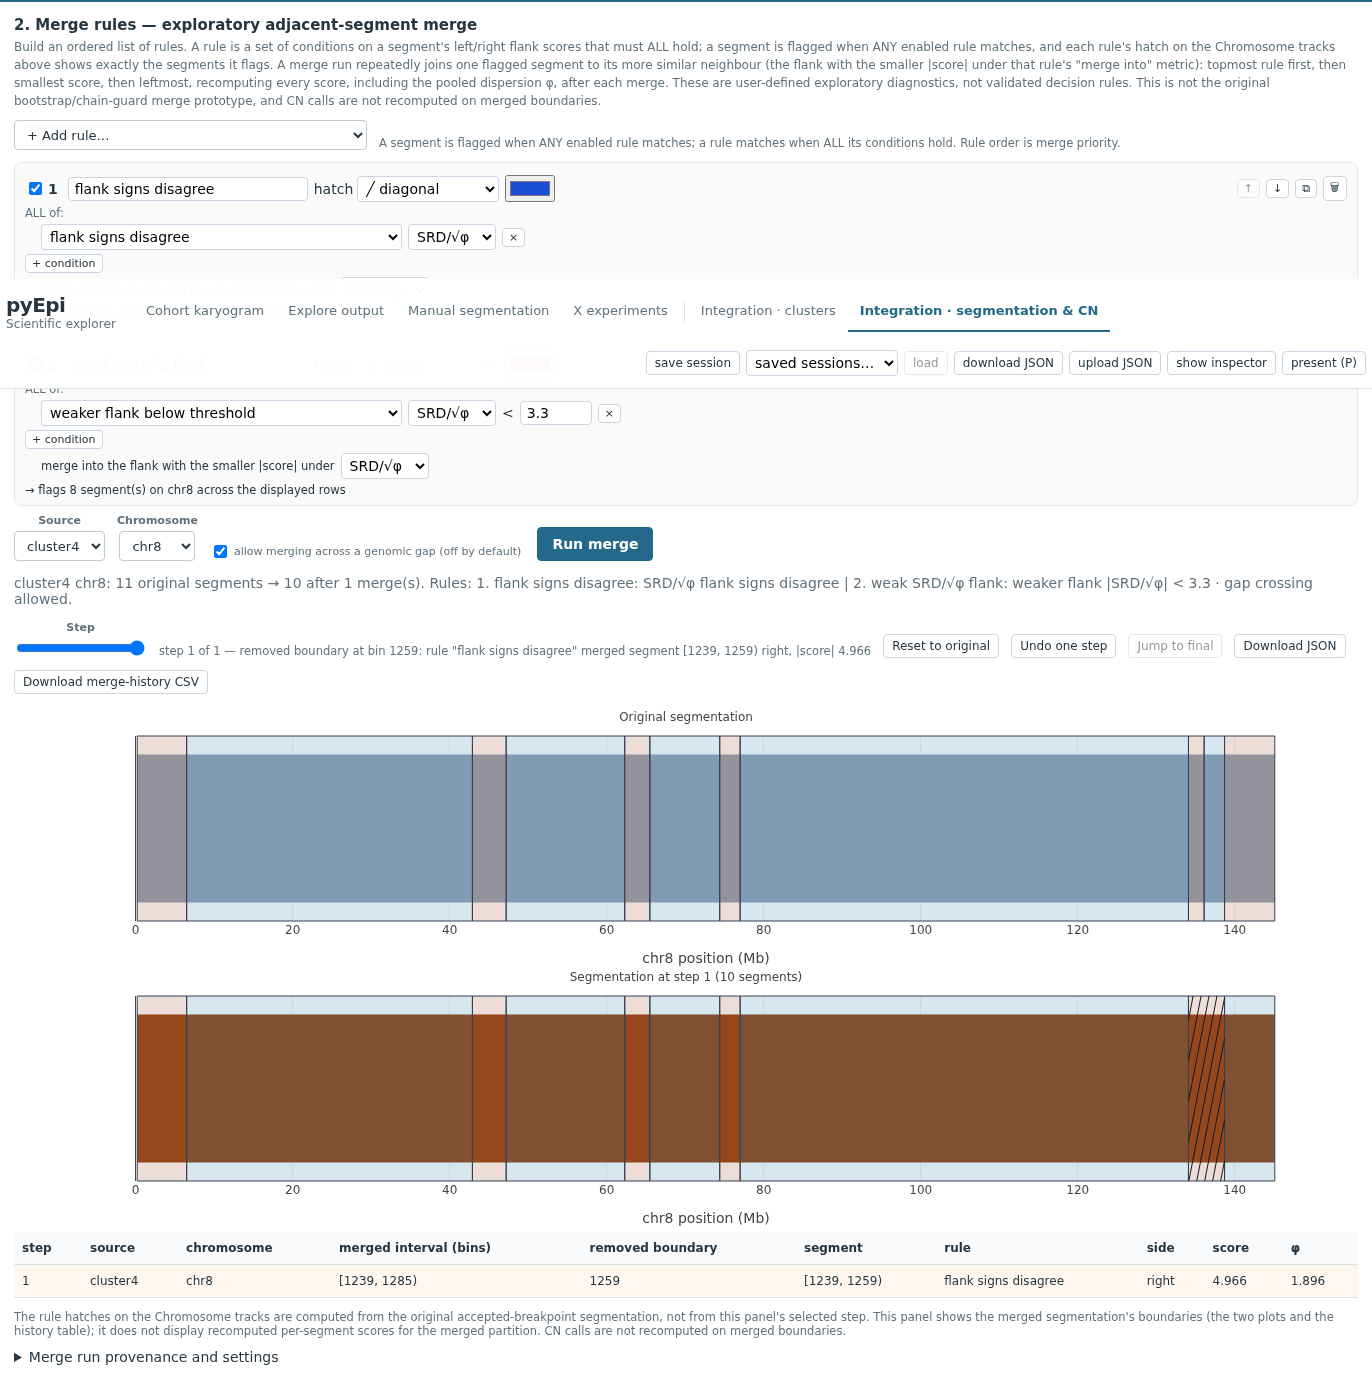
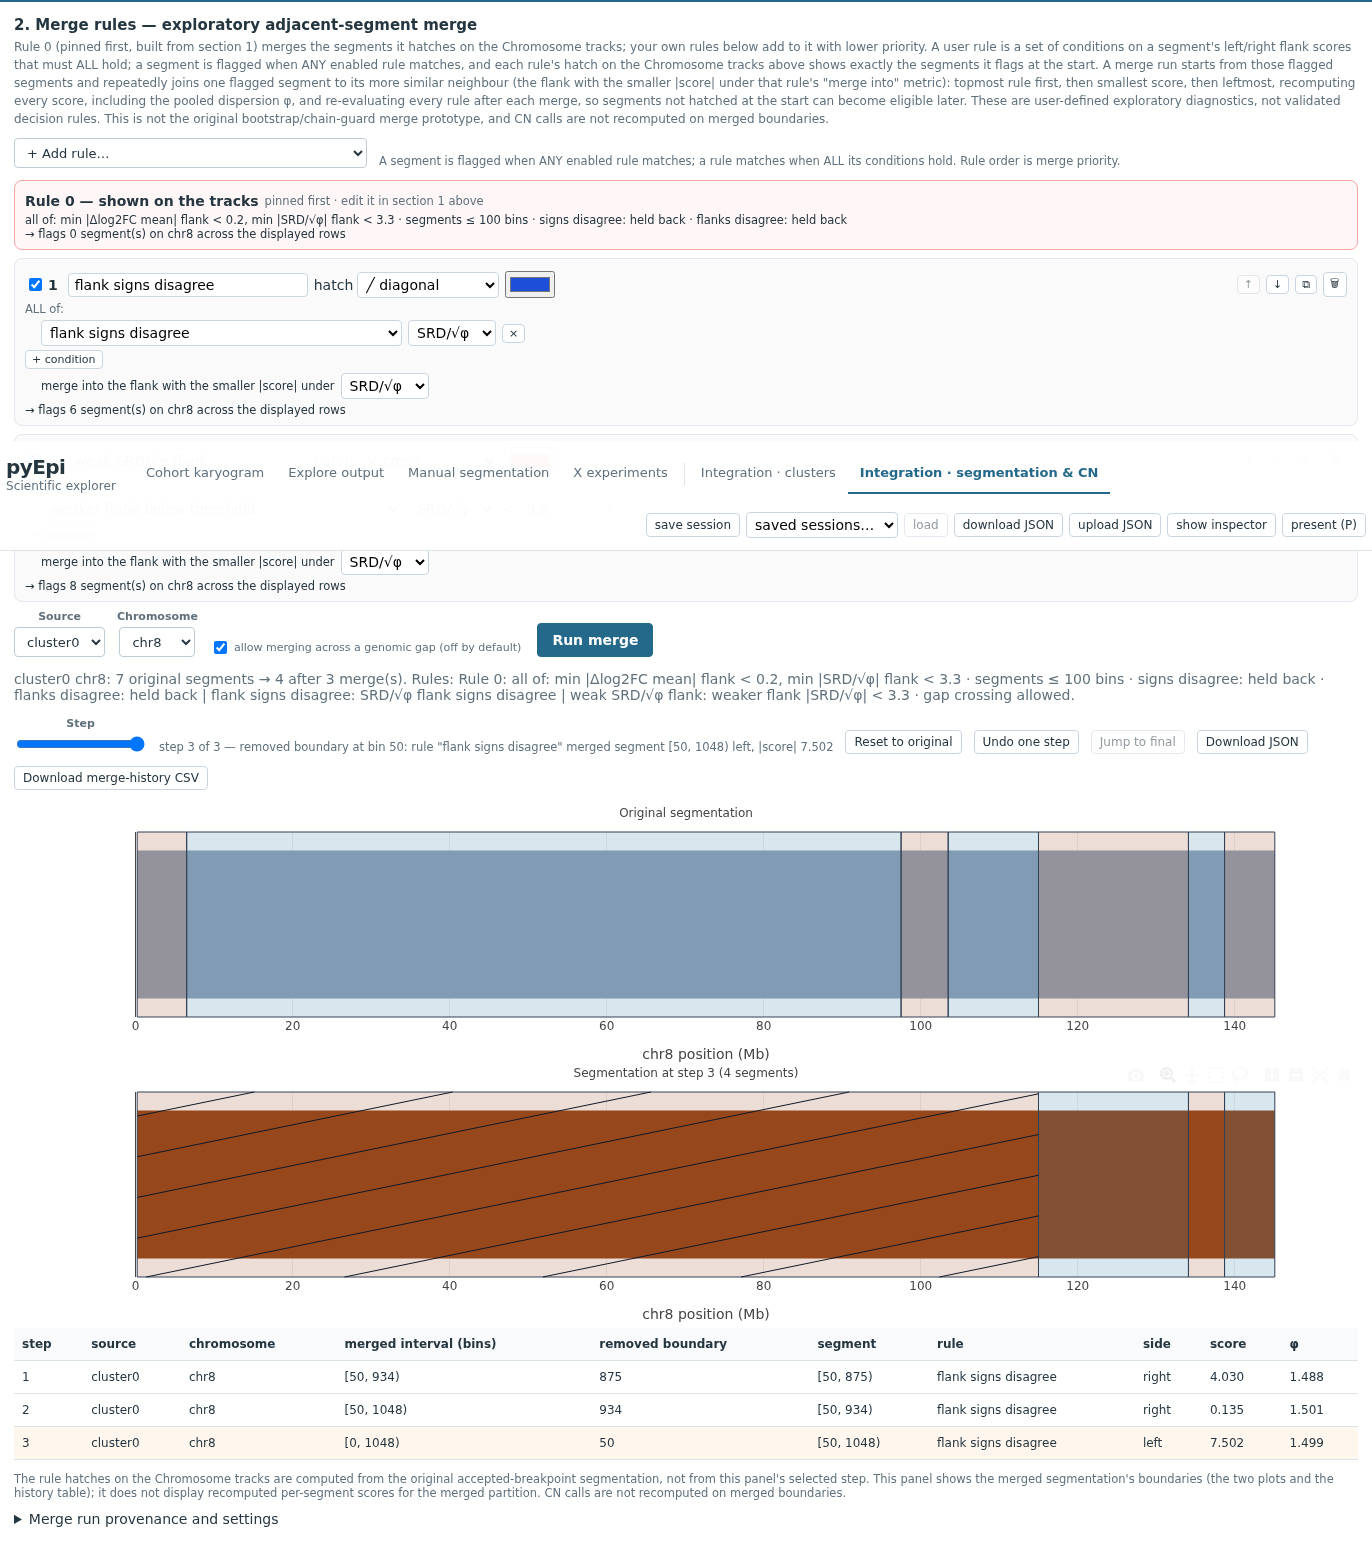
test: browser walkthrough covers Rule 0, live tracks and audit reasons
Also drop NaN reference lines from the diagnostics plots when tau or the
SRD/√φ ref is cleared.

diff --git a/web/src/components/IntegrationSegmentationView.tsx b/web/src/components/IntegrationSegmentationView.tsx
@@ -165,12 +165,14 @@ export default function IntegrationSegmentationView() {
 
   // ---------------- diagnostics across all pilot chromosomes
   const allSmall = useMemo(() => ig.smallSegs.filter((s) => s.len <= seg.smallMax), [ig.smallSegs, seg.smallMax])
+  // an invalid (cleared) tau / SRD ref is NaN: drop the reference lines instead of handing Plotly NaN coordinates
+  const finiteShapes = (shapes: any[]) => shapes.filter((sh) => ['x0', 'x1', 'y0', 'y1'].every((k) => typeof sh[k] !== 'number' || Number.isFinite(sh[k])))
   const diagCommon = { paper_bgcolor: 'white', plot_bgcolor: 'white', font: { size: 11 }, hovermode: presentation ? false : 'closest', margin: { l: 55, r: 10, t: 36, b: 44 } }
   const volcano = () => {
     const pts = allSmall.map((s) => { const f = pickFlank(s, 'min_delta', effectMetric); if (!f) return null; const d = s[f][effectMetric], sp = s[f].srd_phi; if (d === null || sp === null) return null; return { s, x: Math.abs(d), y: Math.abs(sp), f } }).filter(Boolean) as { s: SmallSeg; x: number; y: number; f: 'left' | 'right' }[]
     const q = { smallStrong: pts.filter((p) => p.x < seg.tau && p.y >= seg.srdRef).length, bigWeak: pts.filter((p) => p.x >= seg.tau && p.y < seg.srdRef).length }
     const data = (['left', 'right'] as const).map((f) => { const sub = pts.filter((p) => p.f === f); return { type: 'scatter', mode: 'markers', name: `weaker flank = ${f}`, x: sub.map((p) => p.x), y: sub.map((p) => p.y), customdata: sub.map((p) => p.s.key), text: sub.map((p) => `${p.s.source} ${p.s.chrom} seg ${p.s.segId} (${p.s.len} bins)`), marker: { size: 7, color: f === 'left' ? '#1f77b4' : '#ff7f0e', opacity: 0.75, line: { width: sub.map((p) => (p.s.key === seg.selectedSegment ? 2 : 0)), color: '#111' } }, hovertemplate: '%{text}<br>|effect| %{x:.3f} · |SRD/√φ| %{y:.2f}<extra></extra>' } })
-    return { data, layout: { ...diagCommon, height: 360, title: { text: `weaker-flank |effect| (${METRICS.find((m) => m.id === effectMetric)!.label}) vs |SRD/√φ| of that same flank · ${q.smallStrong} in "small effect, strong SRD", ${q.bigWeak} with effect ≥ τ but SRD < ${seg.srdRef}`, font: { size: 12 }, x: 0 }, xaxis: { title: { text: '|log2 effect| of weaker flank', font: { size: 11 } } }, yaxis: { title: { text: '|SRD/√φ| of that flank', font: { size: 11 } } }, shapes: [{ type: 'line', x0: seg.tau, x1: seg.tau, y0: 0, y1: 1, yref: 'paper', line: { dash: 'dash', color: '#333', width: 1 } }, { type: 'line', x0: 0, x1: 1, xref: 'paper', y0: seg.srdRef, y1: seg.srdRef, line: { dash: 'dash', color: '#333', width: 1 } }], legend: { orientation: 'h', y: -0.2 } } }
+    return { data, layout: { ...diagCommon, height: 360, title: { text: `weaker-flank |effect| (${METRICS.find((m) => m.id === effectMetric)!.label}) vs |SRD/√φ| of that same flank · ${q.smallStrong} in "small effect, strong SRD", ${q.bigWeak} with effect ≥ τ but SRD < ${seg.srdRef}`, font: { size: 12 }, x: 0 }, xaxis: { title: { text: '|log2 effect| of weaker flank', font: { size: 11 } } }, yaxis: { title: { text: '|SRD/√φ| of that flank', font: { size: 11 } } }, shapes: finiteShapes([{ type: 'line', x0: seg.tau, x1: seg.tau, y0: 0, y1: 1, yref: 'paper', line: { dash: 'dash', color: '#333', width: 1 } }, { type: 'line', x0: 0, x1: 1, xref: 'paper', y0: seg.srdRef, y1: seg.srdRef, line: { dash: 'dash', color: '#333', width: 1 } }]), legend: { orientation: 'h', y: -0.2 } } }
   }
   const sizeDep = (stat: 'srd' | 'srd_phi') => {
     const pts = allSmall.map((s) => { const a = s.left[stat], b = s.right[stat]; const v = Math.max(a === null ? -1 : Math.abs(a), b === null ? -1 : Math.abs(b)); return v < 0 ? null : { s, x: s.len, y: v } }).filter(Boolean) as { s: SmallSeg; x: number; y: number }[]
@@ -181,7 +183,7 @@ export default function IntegrationSegmentationView() {
     const rows: { s: SmallSeg; x: number; y: number; c: number }[] = []
     for (const s of allSmall) for (const f of ['left', 'right'] as const) { const d = s[f][effectMetric], sp = s[f].srd_phi; if (d === null || sp === null) continue; const segV = which === 'std' ? s.stats.std : which === 'mean' ? s.stats.mean : s.stats.cv; const flV = which === 'std' ? (f === 'left' ? s.stats.flankStdL : s.stats.flankStdR) : which === 'mean' ? (f === 'left' ? s.stats.flankMeanL : s.stats.flankMeanR) : (f === 'left' ? s.stats.flankCvL : s.stats.flankCvR); const c = Math.max(segV, flV ?? -Infinity); if (!Number.isFinite(c)) continue; rows.push({ s, x: d, y: Math.abs(sp), c }) }
     const color = which === 'cv' ? rows.map((r) => VIRIDIS[Math.min(4, binIndex(r.c, NOISE_CV_BINS))]) : rows.map((r) => r.c)
-    return { data: [{ type: 'scatter', mode: 'markers', x: rows.map((r) => r.x), y: rows.map((r) => r.y), customdata: rows.map((r) => r.s.key), text: rows.map((r) => `${r.s.source} ${r.s.chrom} seg ${r.s.segId} · ${which} ${r.c.toFixed(2)}`), marker: { size: 6, color, colorscale: which === 'cv' ? undefined : 'Viridis', showscale: which !== 'cv', colorbar: { thickness: 8, title: { text: `max(seg, flank) ${which}`, side: 'right' } }, opacity: 0.85 }, hovertemplate: '%{text}<br>effect %{x:.2f} · |SRD/√φ| %{y:.2f}<extra></extra>' }], layout: { ...diagCommon, height: 320, title: { text: `colour = max(segment, flank) per-bin ${which}${which === 'cv' ? ' (binned <0.6, 0.6–0.8, 0.8–1.0, 1.0–1.2, ≥1.2)' : ''}`, font: { size: 12 }, x: 0 }, xaxis: { title: { text: `log2 effect (${METRICS.find((m) => m.id === effectMetric)!.label}, signed)`, font: { size: 11 } } }, yaxis: { title: { text: '|SRD/√φ|', font: { size: 11 } } }, shapes: [{ type: 'line', x0: -seg.tau, x1: -seg.tau, y0: 0, y1: 1, yref: 'paper', line: { dash: 'dash', color: '#333', width: 1 } }, { type: 'line', x0: seg.tau, x1: seg.tau, y0: 0, y1: 1, yref: 'paper', line: { dash: 'dash', color: '#333', width: 1 } }, { type: 'line', x0: 0, x1: 1, xref: 'paper', y0: seg.srdRef, y1: seg.srdRef, line: { dash: 'dash', color: '#333', width: 1 } }], showlegend: false } }
+    return { data: [{ type: 'scatter', mode: 'markers', x: rows.map((r) => r.x), y: rows.map((r) => r.y), customdata: rows.map((r) => r.s.key), text: rows.map((r) => `${r.s.source} ${r.s.chrom} seg ${r.s.segId} · ${which} ${r.c.toFixed(2)}`), marker: { size: 6, color, colorscale: which === 'cv' ? undefined : 'Viridis', showscale: which !== 'cv', colorbar: { thickness: 8, title: { text: `max(seg, flank) ${which}`, side: 'right' } }, opacity: 0.85 }, hovertemplate: '%{text}<br>effect %{x:.2f} · |SRD/√φ| %{y:.2f}<extra></extra>' }], layout: { ...diagCommon, height: 320, title: { text: `colour = max(segment, flank) per-bin ${which}${which === 'cv' ? ' (binned <0.6, 0.6–0.8, 0.8–1.0, 1.0–1.2, ≥1.2)' : ''}`, font: { size: 12 }, x: 0 }, xaxis: { title: { text: `log2 effect (${METRICS.find((m) => m.id === effectMetric)!.label}, signed)`, font: { size: 11 } } }, yaxis: { title: { text: '|SRD/√φ|', font: { size: 11 } } }, shapes: finiteShapes([{ type: 'line', x0: -seg.tau, x1: -seg.tau, y0: 0, y1: 1, yref: 'paper', line: { dash: 'dash', color: '#333', width: 1 } }, { type: 'line', x0: seg.tau, x1: seg.tau, y0: 0, y1: 1, yref: 'paper', line: { dash: 'dash', color: '#333', width: 1 } }, { type: 'line', x0: 0, x1: 1, xref: 'paper', y0: seg.srdRef, y1: seg.srdRef, line: { dash: 'dash', color: '#333', width: 1 } }]), showlegend: false } }
   }
   const deltaHist = () => {
     const data: any[] = []; const layout: any = { ...diagCommon, height: 420, grid: { rows: 2, columns: 2, pattern: 'independent' }, title: { text: 'small-segment flank log2 effects: IQR-trimmed-mean vs plain-mean levels, split by the flank with min vs max |SRD/√φ| (dotted = ±τ)', font: { size: 12 }, x: 0 }, showlegend: false }
@@ -194,7 +196,7 @@ export default function IntegrationSegmentationView() {
       data.push({ type: 'histogram', x: vals, nbinsx: 40, marker: { color: '#4c72b0' }, opacity: 0.85, xaxis: `x${ax}`, yaxis: `y${ax}`, hovertemplate: '%{x:.2f}: %{y}<extra></extra>' })
       layout[`xaxis${ax}`] = { title: { text: `${ml} — ${which}-SRD flank · mean ${mean.toFixed(2)}, median ${med.toFixed(2)}, n=${vals.length}`, font: { size: 10 } } }
       layout[`yaxis${ax}`] = { title: { text: 'segments', font: { size: 10 } } }
-      layout.shapes = [...(layout.shapes || []), { type: 'line', xref: `x${ax}`, yref: 'paper', x0: mean, x1: mean, y0: 0, y1: 1, line: { color: 'red', width: 1.5 } }, { type: 'line', xref: `x${ax}`, yref: 'paper', x0: med, x1: med, y0: 0, y1: 1, line: { color: 'black', width: 1.5, dash: 'dash' } }, { type: 'line', xref: `x${ax}`, yref: 'paper', x0: seg.tau, x1: seg.tau, y0: 0, y1: 1, line: { color: 'grey', width: 1, dash: 'dot' } }, { type: 'line', xref: `x${ax}`, yref: 'paper', x0: -seg.tau, x1: -seg.tau, y0: 0, y1: 1, line: { color: 'grey', width: 1, dash: 'dot' } }]
+      layout.shapes = finiteShapes([...(layout.shapes || []), { type: 'line', xref: `x${ax}`, yref: 'paper', x0: mean, x1: mean, y0: 0, y1: 1, line: { color: 'red', width: 1.5 } }, { type: 'line', xref: `x${ax}`, yref: 'paper', x0: med, x1: med, y0: 0, y1: 1, line: { color: 'black', width: 1.5, dash: 'dash' } }, { type: 'line', xref: `x${ax}`, yref: 'paper', x0: seg.tau, x1: seg.tau, y0: 0, y1: 1, line: { color: 'grey', width: 1, dash: 'dot' } }, { type: 'line', xref: `x${ax}`, yref: 'paper', x0: -seg.tau, x1: -seg.tau, y0: 0, y1: 1, line: { color: 'grey', width: 1, dash: 'dot' } }])
       k++
     }
     return { data, layout }

diff --git a/validation/hatch-merge/HANDOFF.md b/validation/hatch-merge/HANDOFF.md
@@ -93,3 +93,27 @@ node tests/browser_hatch_merge_walkthrough.cjs
 Result: PASS. For the weak-flank rule, `flagsHigh` = 30 (threshold 1000) and `flagsLow` = 0 (threshold 0.0001); hatch shapes on the tracks rose from 136 to 736 with the rule enabled. The merge run (rules: flank signs disagree, then weak flank at 3.3, gap crossing allowed) gave `historyRows` = 1; summary: "cluster4 chr8: 11 original segments → 10 after 1 merge(s)". Session restore and legacy `hatchLayers` migration (three preset rules, enabled states true/false/true) both passed, and `errors` was empty. Backend suite: 114 passed. The script scrolls the result table into view after a run because the result plots are lazy (DeferredPlot).
 
 This supersedes the union-of-layers model from commit `3c86329`, whose UI-level check this run also covers.
+
+## Rule 0 (2026-10-26)
+
+Command run (own server on port 8767, fresh `web/dist` build):
+
+```
+BASE_URL=http://127.0.0.1:8767 \
+PLAYWRIGHT_MODULE=/home/mami/Desktop/EGA/job_search/career-ops/node_modules/playwright \
+CHROMIUM_PATH=/home/mami/.cache/ms-playwright/chromium-1234/chrome-linux64/chrome \
+node tests/browser_hatch_merge_walkthrough.cjs
+```
+
+Key values from `merge_rules_check_results.json`:
+- Rule 0 flags on chr8: `r0High` = 13 (tau 5, combine any), `r0Low` = 0 (tau 0.0001, SRD/√φ criterion off). `runEnabledWithRule0Only` = true.
+- Merge switches (tau 5, any): `wmOff` = 13, `hbOff` = 2, `wmOn` = 15, `hbOn` = 0.
+- `chr3SmallSegments` = 4 (non-pilot chromosome gets live small segments); `auditDerivedReason` = true.
+- `rule0HistoryRows` = 2 for a Rule 0-only run on cluster0 chr8 with gap crossing allowed; the first row's rule is "Rule 0 — shown on the tracks". Without gap crossing the same run makes 0 merges for every cluster on chr8, because every would-merge segment there sits next to a genomic gap.
+- A cleared tau gives "τ must be a positive number" and disables Run merge. `errors` was empty.
+
+Result line: `PASS merge rules: split sections, editor, live hatches, reorder, run, stale, session restore, legacy migration`
+
+Backend suite (`python3 -m pytest -q tests/test_*.py`): 147 passed.
+
+The archived-vs-live flank-score comparison is in `validation/rule0/README.md`.
